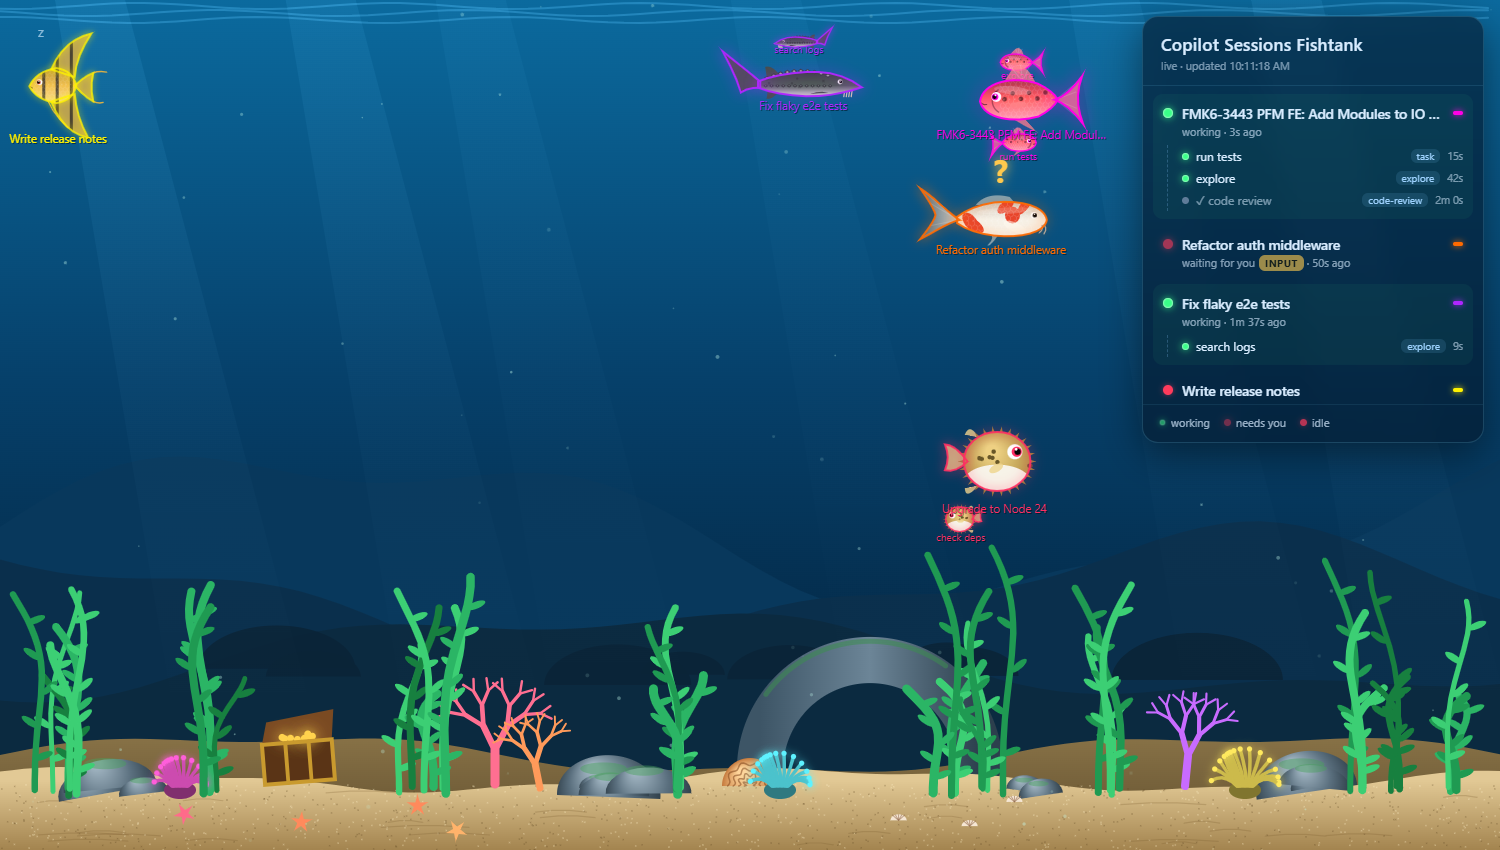
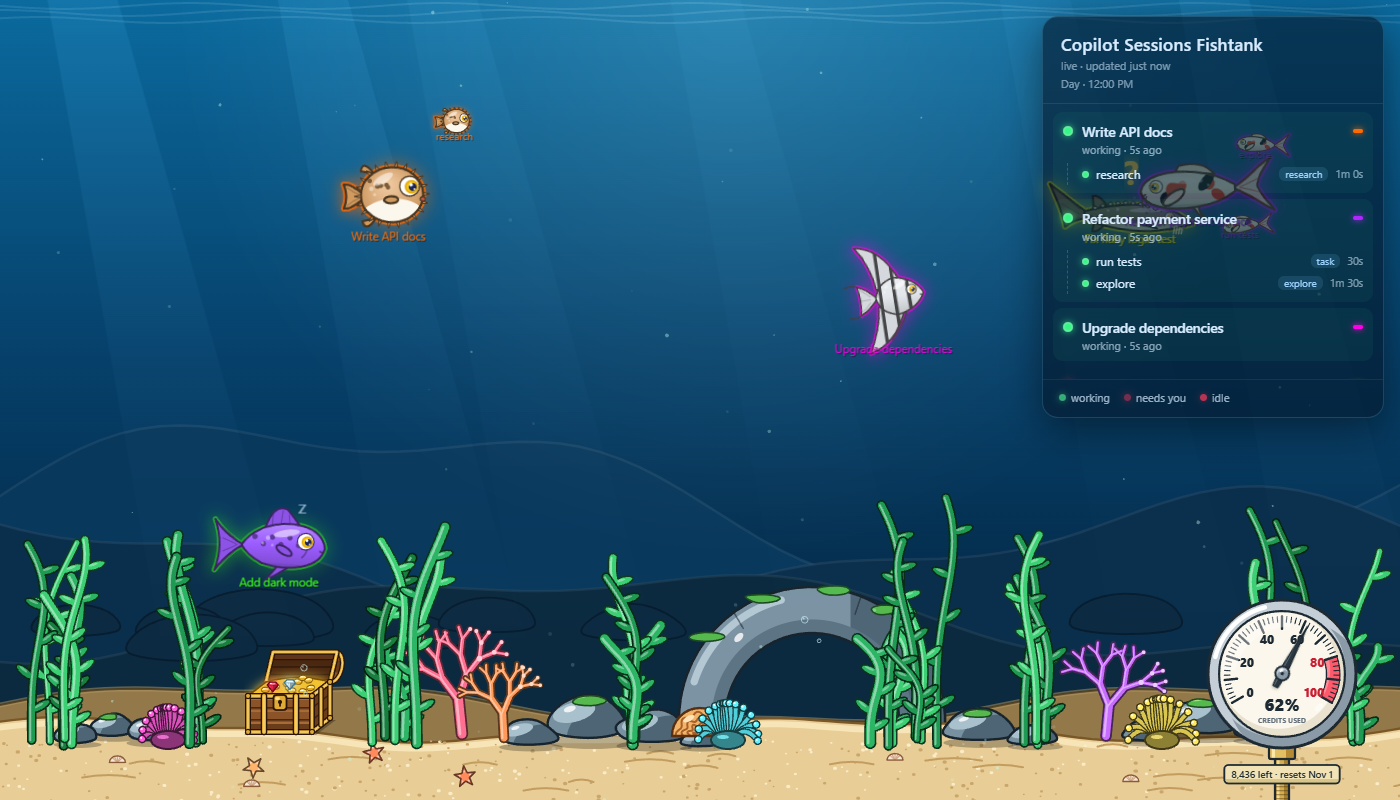
docs(readme): document new features and development setup, add night screenshot

diff --git a/README.md b/README.md
@@ -5,28 +5,42 @@ Every session is a glowing fish: it **races around while the agent is working**,
 **waiting for you**, and drifts lazily with `zZ` when it's **idle**. Subagents swim alongside as little copies of their parent.
 
 ![Copilot Fishtank](docs/screenshot.png)
+![Copilot Fishtank at night](docs/screenshot-night.png)
 
 ## Features
 
 - One fish per Copilot CLI session that was active in the last hour, labelled with its session name (set with `/rename`).
+- Cartoon-style fish with ink outlines and big glossy eyes, rendered with WebGL ([PixiJS](https://pixijs.com)); their bodies
+  bend as they swim and they glow in their session's neon colour. The seabed (seaweed, anemones, coral, rocks, a stone
+  arch and a treasure chest) is drawn in the same cartoon style.
 - Each session gets its own species — tropical fish, koi, sturgeon, angelfish or pufferfish. New sessions get the species
   that's least common in the tank so you get a good mix, and a session keeps its species (even across page reloads).
 - A small fish of the same species and colours for every running subagent, swimming close to its parent.
-- Every few minutes a humpback whale glides by far in the background (add `?whale` to the URL to summon it right away).
+- Every few minutes a humpback whale or a great white shark glides by far in the background, never both at once (add `?whale` or `?shark` to the URL to summon one right away).
+- Day/night cycle that follows the real sun for your PC's clock and timezone: bright water by day, a warm glow at dawn
+  and dusk, and moonlit water at night with bioluminescent plankton and extra-glowy fish. The location is estimated
+  from your timezone; set it exactly with `?lat=51.05&lon=3.72`. Preview a time with `?time=22:30`, or watch a whole
+  day in a minute with `?timelapse`.
 - Side panel listing sessions with a 🟢 working / 🔴 idle / blinking 🔴 waiting-for-input dot, and their subagents
   underneath (running, ✓ done, ✗ failed) with agent type and duration.
+- Your Copilot premium requests, like VS Code's "80% used": a pressure gauge in front of the tank (bottom right) shows
+  the credits used from 0 to 100%, with a red zone for the last 20% that pulses once the needle is in it (faster
+  under 10% left). A plaque on its pipe shows the credits left and the reset date. The gold in the treasure chest
+  shrinks as credits run out (empty at 0%), with one diamond, ruby or sapphire for every 20% left. Read from the
+  quota snapshot the CLI writes to its session logs, so no extra login or API call.
 - Starts automatically when you launch `copilot`, and shuts down when the last Copilot CLI closes.
-- No dependencies besides Node.js. Read-only: it only reads Copilot's local session logs and listens on `127.0.0.1`.
+- The server has no runtime dependencies. Read-only: it only reads Copilot's local session logs and listens on `127.0.0.1`.
 
 ## Requirements
 
 - [GitHub Copilot CLI](https://docs.github.com/copilot/how-tos/use-copilot-agents/use-copilot-cli)
-- [Node.js](https://nodejs.org) 18 or newer
+- [Node.js](https://nodejs.org) 20.19 or newer (with npm)
 - macOS/Linux: `bash` and `curl`
 
 ## Install
 
-Clone the repo somewhere permanent (the hook points to this folder), then run the installer.
+Clone the repo somewhere permanent (the hook points to this folder), then run the installer. It installs the npm
+dependencies, builds the page into `dist/` and registers the hook.
 
 **Windows (PowerShell)**
 
@@ -46,6 +60,8 @@ cd copilot-fishtank
 
 That's it. Start `copilot` and the fishtank opens in your browser at <http://localhost:4321>.
 
+After pulling updates, rebuild with `npm ci && npm run build` (or run the installer again).
+
 ## How it works
 
 - The installer adds a user-level Copilot CLI [hook](https://docs.github.com/copilot/reference/hooks-configuration)
@@ -54,7 +70,8 @@ That's it. Start `copilot` and the fishtank opens in your browser at <http://loc
   and opens the browser. If the server is already running, it does nothing.
 - `server.js` tails `~/.copilot/session-state/<session>/events.jsonl` every second and derives each session's state
   from the event stream (turn start/end, tool calls, permission requests, subagent start/complete). It pushes
-  updates to the page over Server-Sent Events.
+  updates to the page over Server-Sent Events, and serves the built page from `dist/`. It also forwards the latest
+  premium-request quota that the CLI logs with each model call (`quotaSnapshots`), for the credits gauge.
 - Every 5 seconds the server checks the `inuse.<pid>.lock` files of the sessions. Once no Copilot CLI process has
   been running for ~15 seconds it shows a "Copilot closed" screen in the page and exits. With multiple Copilot
   windows open it keeps running until the last one closes.
@@ -62,11 +79,34 @@ That's it. Start `copilot` and the fishtank opens in your browser at <http://loc
 ## Run manually
 
 ```bash
+npm run build        # once, and after every change to the page
 npm start            # or: node server.js
 ```
 
 Then open <http://localhost:4321>. When started manually it still exits once no Copilot CLI is running; set
 `FISHTANK_KEEP_ALIVE=1` to keep it up.
+
+## Development
+
+The page is a [Vite](https://vite.dev) + TypeScript + PixiJS app in `src/`:
+
+| Path                 | What                                                                   |
+| -------------------- | ---------------------------------------------------------------------- |
+| `src/main.ts`        | Sets up the Pixi app, the layers, the session → fish sync and the loop |
+| `src/scene/`         | Fish (swim physics, bending body, labels), water, sky overlay, whale and shark passers-by, credits gauge |
+| `src/art/`           | Canvas 2D painters for the fish, terrain, whale and shark, used as textures |
+| `src/sky.ts`         | Sun position and day/night light                                       |
+| `src/species.ts`     | Species table and the least-common species picker                      |
+| `src/panel.ts`       | Side panel and the live `/events` connection                           |
+| `src/credits.ts`     | Credits used/left, low warning and chest gold level from the quota     |
+
+```bash
+npm start            # terminal 1: the data server (set FISHTANK_KEEP_ALIVE=1 to keep it running)
+npm run dev          # terminal 2: page with hot reload on http://localhost:5173, proxies /events to the server
+npm run typecheck    # TypeScript
+npm test             # unit tests (Vitest)
+npm run build        # production build into dist/
+```
 
 ## Configuration
 
@@ -75,6 +115,15 @@ Then open <http://localhost:4321>. When started manually it still exits once no 
 | `FISHTANK_PORT`        | `4321`                     | Port to listen on (localhost only)            |
 | `COPILOT_SESSION_DIR`  | `~/.copilot/session-state` | Where Copilot CLI stores its session logs     |
 | `FISHTANK_KEEP_ALIVE`  | unset                      | Set to `1` to disable auto-shutdown           |
+
+URL parameters for the page (combine them with `&`, e.g. <http://localhost:4321/?time=22:30&shark>):
+
+| Parameter            | Description                                                         |
+| -------------------- | ------------------------------------------------------------------- |
+| `?lat=51.05&lon=3.72` | Your exact location for the sun position (default: guessed from timezone) |
+| `?time=22:30`        | Show the tank at a fixed time of day                                |
+| `?timelapse`         | Run a whole day in about a minute                                   |
+| `?whale` / `?shark`  | Summon the humpback whale or the great white shark right away         |
 
 ## Uninstall
 
